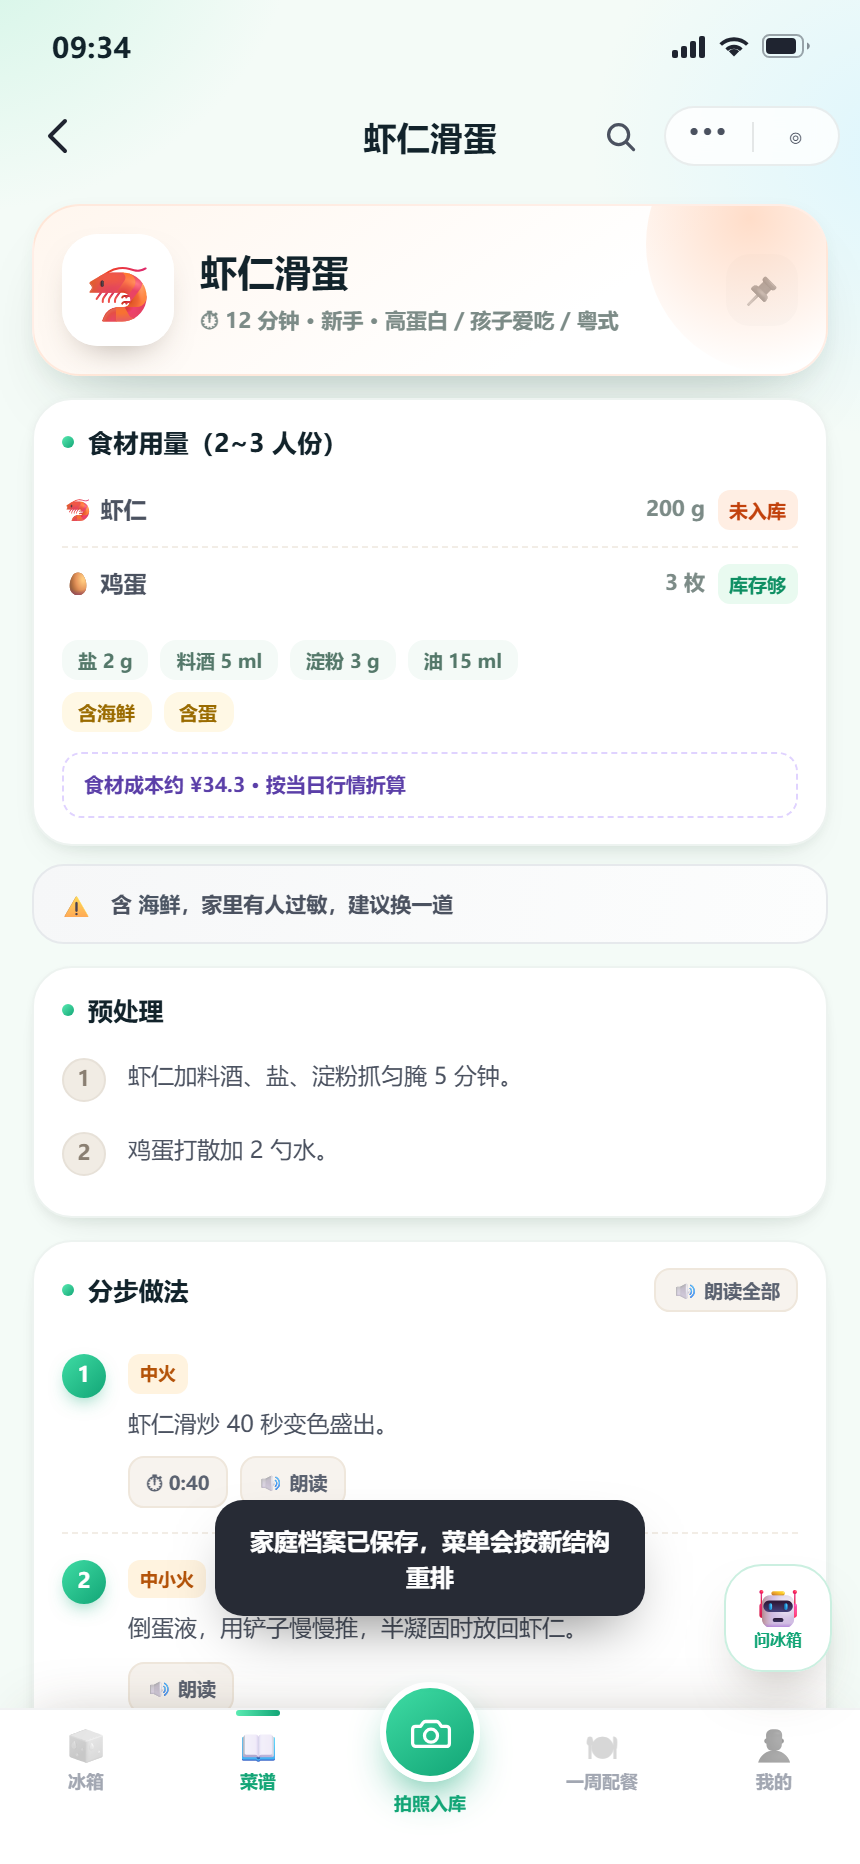
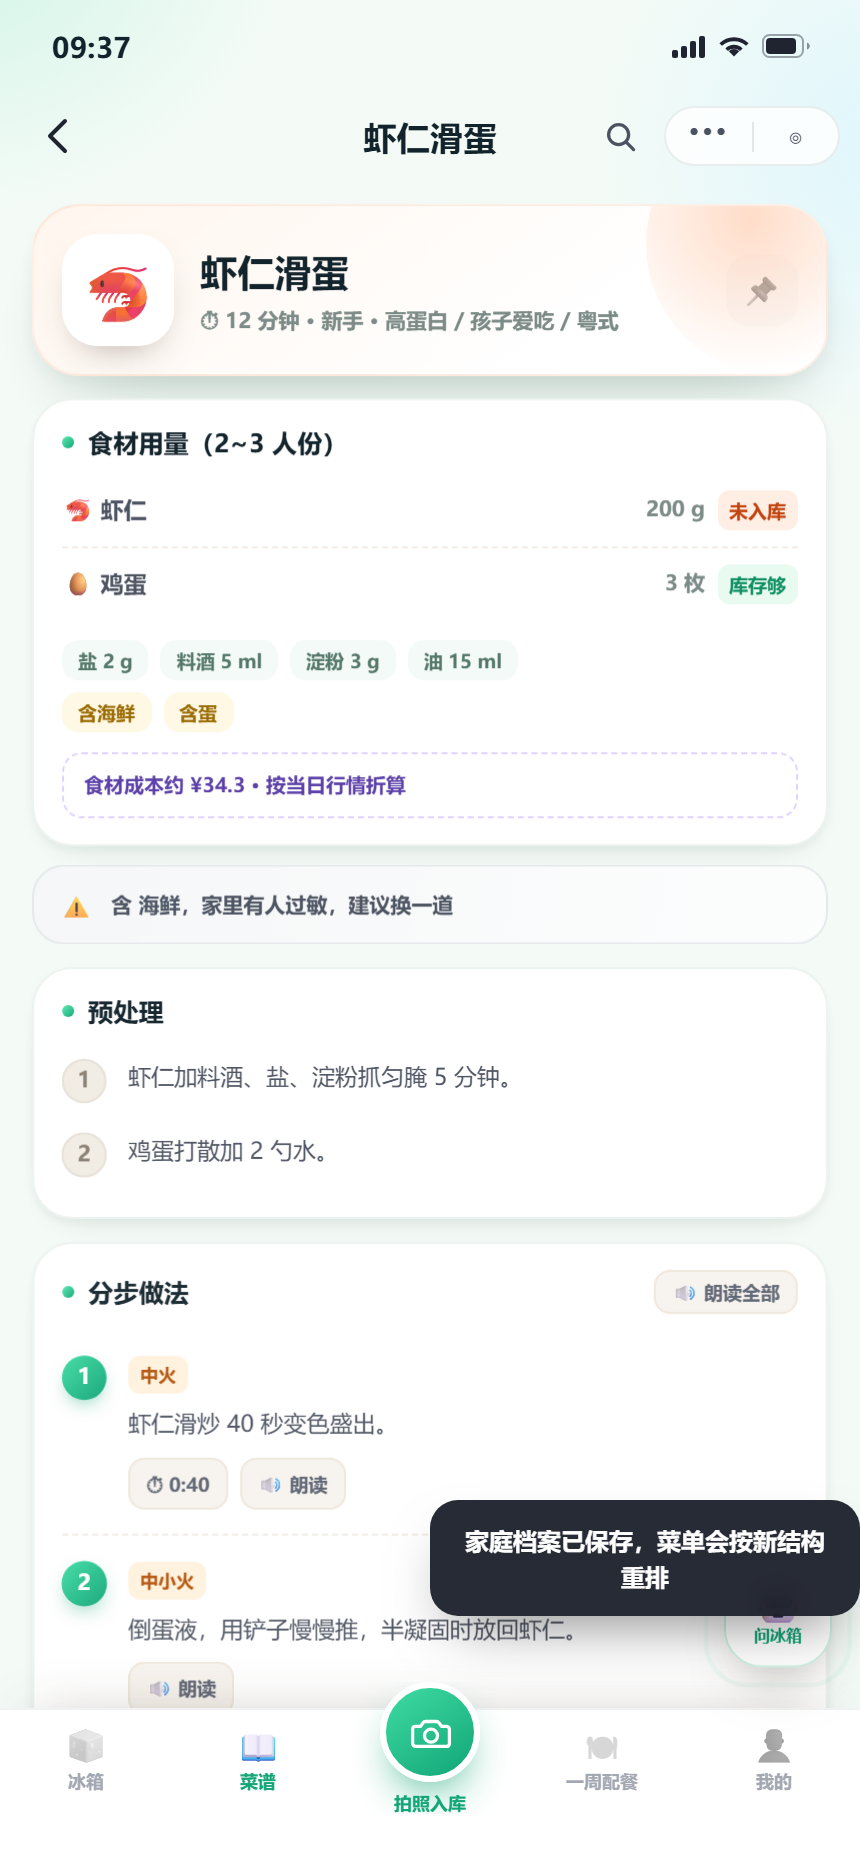
v19：动效大幅增强（20+ 处）
- 页面切换：内容块错峰上浮 + 缩放

- 圆环旋入、雷达图旋转展开、进度条从左撑开、数字滚动放大

- 按钮/卡片水波纹、主按钮光带扫过、卡片按压缩放

- 底部导航选中图标弹跳 + 指示条生长

- 弹层回弹入场、遮罩渐显、Toast 滑入

- AI 图标漂浮 + 呼吸光圈（拖动时自动停）

- 聊天气泡弹出、空状态漂浮、步骤序号依次弹入

- 做菜成功/添加菜谱放彩带，拍照有快门闪光

- 尊重系统 prefers-reduced-motion

diff --git a/css/app.css b/css/app.css
@@ -1273,3 +1273,172 @@ body{ background:#EAF3EE; }
 }
 .acct-av{ background:linear-gradient(145deg,#DBF6EB,#C6F0DE); }
 .acct-ok{ color:#0E8F63; background:#E6FAF1; }
+
+/* ============================================================
+   v19：动效增强
+   ============================================================ */
+/* 页面切换：内容块错峰上浮 + 轻微缩放 */
+.page > *{ animation:pageBlock .5s cubic-bezier(.22,.9,.28,1) both; }
+.page > *:nth-child(1){ animation-delay:.01s }
+.page > *:nth-child(2){ animation-delay:.05s }
+.page > *:nth-child(3){ animation-delay:.09s }
+.page > *:nth-child(4){ animation-delay:.13s }
+.page > *:nth-child(5){ animation-delay:.17s }
+.page > *:nth-child(6){ animation-delay:.21s }
+.page > *:nth-child(n+7){ animation-delay:.25s }
+@keyframes pageBlock{
+  from{ opacity:0; transform:translateY(16px) scale(.985) }
+  to{ opacity:1; transform:none }
+}
+
+/* 区块标题竖条：从中间长出来 */
+.section-head .t::before{ animation:barGrow .45s cubic-bezier(.22,.9,.28,1) both; transform-origin:center; }
+@keyframes barGrow{ from{ transform:scaleY(0) } to{ transform:scaleY(1) } }
+
+/* 圆环：转着放大进来 */
+.donut-arcs{ animation:ringIn .85s cubic-bezier(.22,.9,.28,1) both !important; }
+@keyframes ringIn{
+  from{ opacity:0; transform:scale(.72) rotate(-38deg) }
+  to{ opacity:1; transform:scale(1) rotate(0) }
+}
+
+/* 雷达：顺时针旋入 */
+.radar-shape{ animation:radarIn2 .8s cubic-bezier(.22,.9,.28,1) both !important; }
+@keyframes radarIn2{
+  from{ opacity:0; transform:scale(.35) rotate(-30deg) }
+  60%{ opacity:1 }
+  to{ opacity:1; transform:scale(1) rotate(0) }
+}
+
+/* 进度条：从左撑开 */
+.nb-bar i{ animation:barFill .85s cubic-bezier(.22,.9,.28,1) both; transform-origin:left center; }
+@keyframes barFill{ from{ transform:scaleX(0) } to{ transform:scaleX(1) } }
+
+/* 按钮 / 卡片：水波纹 */
+.btn, .chip, .food, .dish, .tab, .addchip, .cnt, .vchip, .tool, .pin{ position:relative; overflow:hidden; }
+.rip{
+  position:absolute; width:9px; height:9px; margin:-4.5px 0 0 -4.5px; border-radius:50%;
+  background:currentColor; opacity:.18; pointer-events:none; z-index:0;
+  animation:rip .62s cubic-bezier(.2,.7,.3,1) forwards;
+}
+@keyframes rip{ from{ transform:scale(.4) } to{ transform:scale(16); opacity:0 } }
+
+/* 主按钮：光带扫过 */
+.btn.primary{ position:relative; overflow:hidden; }
+.btn.primary::after{
+  content:''; position:absolute; top:-60%; left:-70%; width:50%; height:220%;
+  background:linear-gradient(100deg,transparent,rgba(255,255,255,.55),transparent);
+  transform:rotate(16deg); animation:sheen 4.6s ease-in-out infinite;
+}
+@keyframes sheen{
+  0%,72%{ left:-70% } 86%{ left:130% } 100%{ left:130% }
+}
+
+/* 底部导航：选中图标弹跳 + 指示条生长 */
+.tab.on .ic{ animation:tabPop .5s cubic-bezier(.3,1.6,.5,1) both; }
+@keyframes tabPop{
+  0%{ transform:translateY(0) scale(1) }
+  35%{ transform:translateY(-6px) scale(1.16) }
+  100%{ transform:translateY(0) scale(1) }
+}
+.tab.on::before{ animation:tabBar .42s cubic-bezier(.22,.9,.28,1) both; }
+@keyframes tabBar{ from{ transform:scaleX(.2); opacity:.4 } to{ transform:scaleX(1); opacity:1 } }
+
+/* 弹层：回弹入场 + 遮罩渐显 */
+.modal-host:not([hidden]) .mask{ animation:maskIn .28s ease both; }
+@keyframes maskIn{ from{ opacity:0 } to{ opacity:1 } }
+.modal-host:not([hidden]) .sheet{ animation:sheetUp .48s cubic-bezier(.16,1.02,.34,1.06) both; }
+@keyframes sheetUp{
+  0%{ opacity:0; transform:translateY(46px) scale(.97) }
+  60%{ opacity:1 }
+  100%{ opacity:1; transform:translateY(0) scale(1) }
+}
+
+/* Toast：滑入 + 底部进度条 */
+.toast{ animation:toastIn .42s cubic-bezier(.22,.9,.28,1) both; }
+@keyframes toastIn{
+  from{ opacity:0; transform:translateY(18px) scale(.94) }
+  to{ opacity:1; transform:none }
+}
+
+/* 卡片按压 */
+.food:active{ transform:scale(.965); }
+.food, .dish{ transition:transform .16s cubic-bezier(.2,.7,.3,1), box-shadow .2s ease; }
+.dish:active{ transform:scale(.985); }
+.chip:active, .cnt:active, .addchip:active{ transform:scale(.94); }
+
+/* 置顶针：点一下转一圈 */
+.pin.on{ animation:pinPop .5s cubic-bezier(.3,1.5,.5,1) both; }
+@keyframes pinPop{
+  0%{ transform:rotate(0) scale(1) }
+  45%{ transform:rotate(190deg) scale(1.25) }
+  100%{ transform:rotate(0) scale(1) }
+}
+
+/* AI 图标：轻轻上下漂浮 + 呼吸光圈 */
+.assist-fab{ animation:floatY 3.6s ease-in-out infinite; }
+@keyframes floatY{
+  0%,100%{ transform:translateY(0) }
+  50%{ transform:translateY(-7px) }
+}
+.assist-fab::after{
+  content:''; position:absolute; inset:-6px; border-radius:inherit;
+  border:2px solid rgba(46,211,154,.45); animation:breathe 2.8s ease-in-out infinite;
+  pointer-events:none;
+}
+@keyframes breathe{
+  0%,100%{ opacity:.5; transform:scale(1) }
+  50%{ opacity:0; transform:scale(1.22) }
+}
+.assist-fab.dragging{ animation:none; }
+
+/* 聊天气泡 */
+.chat .msg{ animation:bubbleIn .4s cubic-bezier(.2,1.1,.4,1) both; }
+@keyframes bubbleIn{
+  from{ opacity:0; transform:translateY(10px) scale(.94) }
+  to{ opacity:1; transform:none }
+}
+
+/* 空状态：漂浮 */
+.empty .e{ animation:floatY 3s ease-in-out infinite; }
+
+/* 彩带 */
+.confetti{
+  position:absolute; width:7px; height:7px; border-radius:2px; pointer-events:none; z-index:120;
+  animation:confetti .98s cubic-bezier(.2,.8,.3,1) forwards;
+}
+@keyframes confetti{
+  from{ opacity:1; transform:translate(0,0) rotate(0) scale(1) }
+  to{ opacity:0; transform:translate(var(--tx),var(--ty)) rotate(340deg) scale(.35) }
+}
+
+/* 相机快门闪光 */
+.flash{
+  position:absolute; inset:0; background:#fff; z-index:130; pointer-events:none;
+  animation:flash .5s ease-out forwards;
+}
+@keyframes flash{ from{ opacity:.92 } to{ opacity:0 } }
+
+/* 数字滚动时的轻微放大 */
+@keyframes numPop{ 0%{ transform:scale(1) } 40%{ transform:scale(1.06) } 100%{ transform:scale(1) } }
+.ring-c b[data-count]{ animation:numPop .6s ease both; }
+
+/* 步骤序号：进入时依次弹 */
+.stepline .no{ animation:dotPop .45s cubic-bezier(.3,1.5,.5,1) both; }
+@keyframes dotPop{ from{ opacity:0; transform:scale(.3) } to{ opacity:1; transform:scale(1) } }
+.stepline:nth-child(1) .no{ animation-delay:.05s }
+.stepline:nth-child(2) .no{ animation-delay:.1s }
+.stepline:nth-child(3) .no{ animation-delay:.15s }
+.stepline:nth-child(4) .no{ animation-delay:.2s }
+.stepline:nth-child(5) .no{ animation-delay:.25s }
+.stepline:nth-child(6) .no{ animation-delay:.3s }
+.stepline:nth-child(n+7) .no{ animation-delay:.35s }
+
+/* 尊重系统"减少动态" */
+@media (prefers-reduced-motion: reduce){
+  *, *::before, *::after{
+    animation-duration:.001ms !important;
+    animation-iteration-count:1 !important;
+    transition-duration:.001ms !important;
+  }
+}

diff --git a/js/app.js b/js/app.js
@@ -265,7 +265,7 @@
     switch (act) {
       case 'closeModal': closeModal(); break;
 
-      case 'shoot': openCamera('add'); break;
+      case 'shoot': flashScreen(); openCamera('add'); break;
       case 'repic': openCamera('update', t.getAttribute('data-id')); break;
 
       case 'swap':
@@ -1045,6 +1045,51 @@
   /* ============================================================
      做菜（扣减库存）
      ============================================================ */
+  /* 水波纹 */
+  function bindRipple() {
+    d.addEventListener('pointerdown', function (e) {
+      const b = e.target.closest('.btn,.chip,.food,.dish,.tab,.addchip,.cnt,.vchip,.tool');
+      if (!b) return;
+      const r = b.getBoundingClientRect();
+      const s = d.createElement('span');
+      s.className = 'rip';
+      s.style.left = (e.clientX - r.left) + 'px';
+      s.style.top = (e.clientY - r.top) + 'px';
+      b.appendChild(s);
+      setTimeout(function () { s.remove(); }, 640);
+    }, { passive: true });
+  }
+
+  /* 彩带 */
+  function burst(cx, cy) {
+    const colors = ['#2FD79E', '#12A576', '#F5B301', '#9B6BF5', '#3FDCA4', '#FF8A3D'];
+    const r = appEl.getBoundingClientRect();
+    const x = (cx || w.innerWidth / 2) - r.left;
+    const y = (cy || w.innerHeight / 2) - r.top;
+    for (let i = 0; i < 20; i++) {
+      const s = d.createElement('i');
+      s.className = 'confetti';
+      s.style.left = x + 'px';
+      s.style.top = y + 'px';
+      s.style.background = colors[i % colors.length];
+      const ang = Math.random() * Math.PI * 2;
+      const dist = 55 + Math.random() * 120;
+      s.style.setProperty('--tx', (Math.cos(ang) * dist).toFixed(1) + 'px');
+      s.style.setProperty('--ty', (Math.sin(ang) * dist).toFixed(1) + 'px');
+      s.style.animationDelay = Math.round(Math.random() * 90) + 'ms';
+      appEl.appendChild(s);
+      setTimeout(function () { s.remove(); }, 1300);
+    }
+  }
+
+  /* 快门闪光 */
+  function flashScreen() {
+    const f = d.createElement('div');
+    f.className = 'flash';
+    appEl.appendChild(f);
+    setTimeout(function () { f.remove(); }, 520);
+  }
+
   function doCook(id) {
     const dish = D.DISHES.filter(x => x.id === id)[0];
     if (!dish) return;
@@ -1058,6 +1103,7 @@
     const res = E.cook(dish, st);
     S.save();
     const left = res.used.filter(u => u.left > 0);
+    burst(w.innerWidth / 2, w.innerHeight * 0.42);
     APP.view = { name: 'fridge' };
     renderAll(true);
     openModal(`
@@ -1570,6 +1616,7 @@
     const ok = S.addCustom(draft);
     E.attachCustom([draft]);
     closeModal();
+    burst(w.innerWidth / 2, w.innerHeight * 0.4);
     toast(ok ? '已加入菜谱：' + draft.name : '这道菜已经在库里了');
     go({ name: 'dish', id: draft.id });
   }
@@ -1830,6 +1877,7 @@
   APP.view = S.state.family.loggedIn ? viewFromHash() : { name: 'login' };
   renderAll(true);
   initFab();
+  bindRipple();
   setTimeout(maybeRemind, 650);
 
   // PWA：注册 service worker（file:// 下会失败，忽略即可）

diff --git a/index.html b/index.html
@@ -9,7 +9,7 @@
 <meta name="apple-mobile-web-app-capable" content="yes">
 <meta name="apple-mobile-web-app-status-bar-style" content="default">
 <title>冰箱对对碰 · AI 家庭食材管家</title>
-<link rel="stylesheet" href="css/app.css?v=18">
+<link rel="stylesheet" href="css/app.css?v=19">
 </head>
 <body>
 <div class="stage">
@@ -59,10 +59,10 @@
 <div class="modal-host" id="modal" hidden></div>
 <div class="toast" id="toast"></div>
 
-<script src="js/data.js?v=18"></script>
-<script src="js/engine.js?v=18"></script>
-<script src="js/store.js?v=18"></script>
-<script src="js/ui.js?v=18"></script>
-<script src="js/app.js?v=18"></script>
+<script src="js/data.js?v=19"></script>
+<script src="js/engine.js?v=19"></script>
+<script src="js/store.js?v=19"></script>
+<script src="js/ui.js?v=19"></script>
+<script src="js/app.js?v=19"></script>
 </body>
 </html>

diff --git a/sw.js b/sw.js
@@ -1,5 +1,5 @@
 /* 冰箱对对碰 · 离线缓存 */
-const CACHE = 'ddm-v18';
+const CACHE = 'ddm-v19';
 const SHELL = [
   './', './index.html', './css/app.css', './manifest.json',
   './js/data.js', './js/engine.js', './js/store.js', './js/ui.js', './js/app.js',
